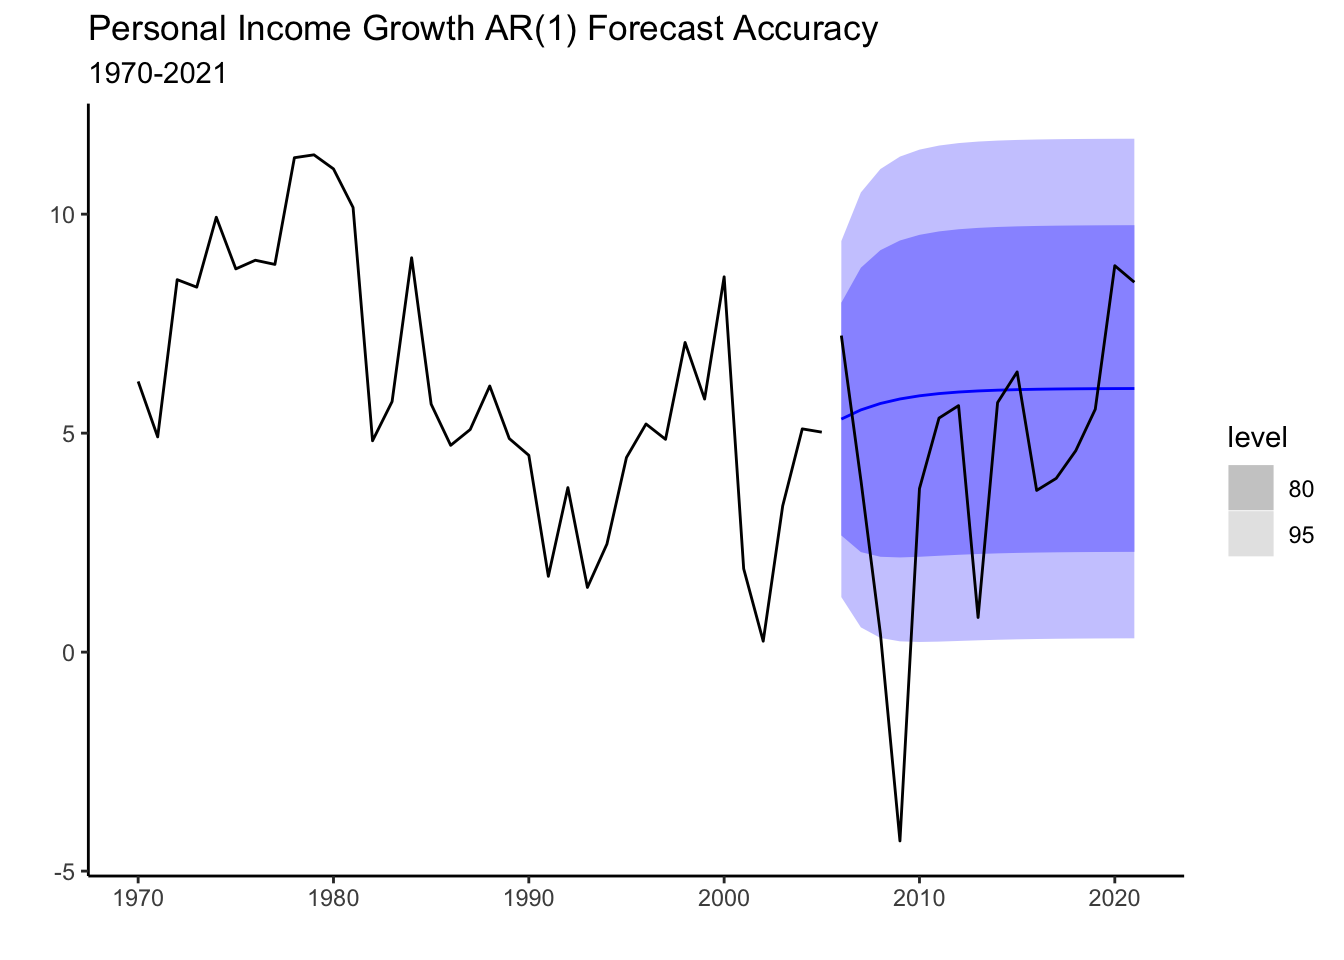
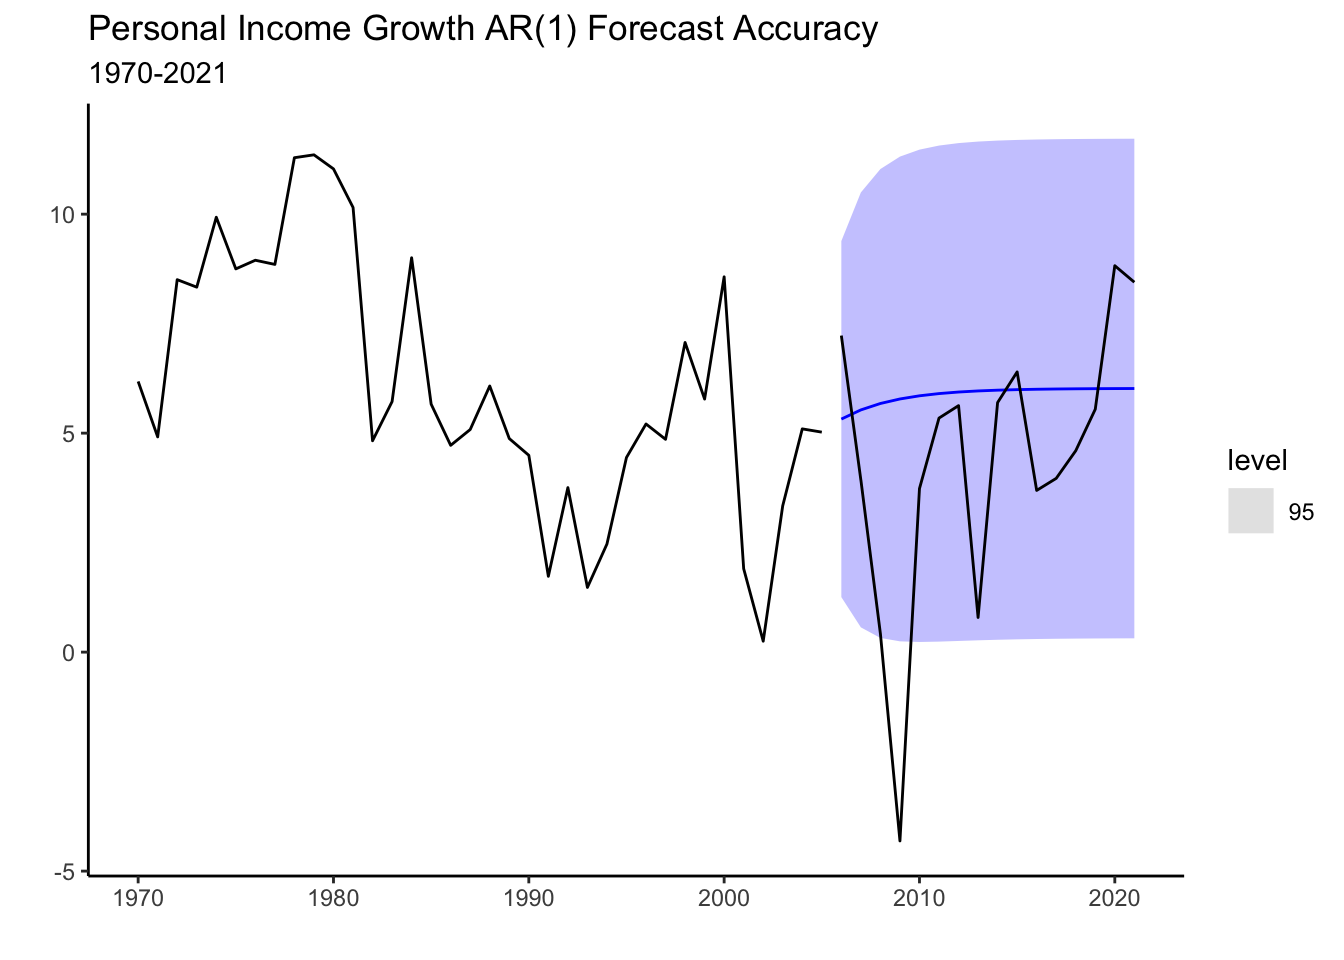
changes

Changed region(s): [[0.625, 0.2188, 0.8438, 0.5938], [0.9062, 0.4375, 1.0, 0.5938]]

diff --git a/docs/ARIMA.html b/docs/ARIMA.html
@@ -229,7 +229,10 @@ div.csl-indent {
   <li><a href="#modeling-and-residuals" id="toc-modeling-and-residuals" class="nav-link" data-scroll-target="#modeling-and-residuals">Modeling and Residuals</a></li>
   <li><a href="#model-selection" id="toc-model-selection" class="nav-link" data-scroll-target="#model-selection">Model Selection</a></li>
   </ul></li>
-  <li><a href="#the-ma1-model" id="toc-the-ma1-model" class="nav-link" data-scroll-target="#the-ma1-model"><span class="header-section-number">7.3</span> The MA(1) model</a></li>
+  <li><a href="#the-ma1-model" id="toc-the-ma1-model" class="nav-link" data-scroll-target="#the-ma1-model"><span class="header-section-number">7.3</span> The MA(1) model</a>
+  <ul class="collapse">
+  <li><a href="#u.s.-treasury-example" id="toc-u.s.-treasury-example" class="nav-link" data-scroll-target="#u.s.-treasury-example">U.S. Treasury Example</a></li>
+  </ul></li>
   <li><a href="#arima" id="toc-arima" class="nav-link" data-scroll-target="#arima"><span class="header-section-number">7.4</span> ARIMA</a>
   <ul class="collapse">
   <li><a href="#revisiting-chilangos-restaurant" id="toc-revisiting-chilangos-restaurant" class="nav-link" data-scroll-target="#revisiting-chilangos-restaurant">Revisiting Chilango’s Restaurant</a></li>
@@ -859,11 +862,11 @@ We can generate a white noise process by using the normal distribution with a me
 </section>
 <section id="the-ar1-model" class="level2" data-number="7.2">
 <h2 data-number="7.2" class="anchored" data-anchor-id="the-ar1-model"><span class="header-section-number">7.2</span> The AR(1) model</h2>
-<p>In the previous section, we established that growth of personal income in California has a decaying ACF and a single significant spike (at lag 1) in the PACF. These patterns can be generated with an AR(1) model. Specifically, the AR(1) model is of the form:</p>
+<p>In the previous section, we established that the growth of personal income in California has a decaying ACF and a single significant spike (at lag 1) in the PACF. These patterns can be generated with an AR(1) model. Specifically, the AR(1) model is of the form:</p>
 <center>
 <span class="math inline">\(y_t=c+\phi y_{t-1}+ \epsilon_t\)</span>
 </center>
-<p>where <span class="math inline">\(c\)</span> is a constant, <span class="math inline">\(\phi\)</span> is thw lag coefficient, <span class="math inline">\(y_{t-1}\)</span> is the first lag of <span class="math inline">\(y\)</span>, and <span class="math inline">\(\epsilon\)</span> is random error. Note that this model uses the first lag of the series as the single independent variable. The AR model can be extended to include more lags of <span class="math inline">\(y\)</span>, and in general, it would be called an <span class="math inline">\(AR(p)\)</span> model, where <span class="math inline">\(p\)</span> is the largest lag included. Since, we include only the first lag of the <span class="math inline">\(y\)</span> variable in the specification above, we refer to the model as an AR(1). Below we simulate some data based on the AR(1) model.</p>
+<p>where <span class="math inline">\(c\)</span> is a constant, <span class="math inline">\(\phi\)</span> is the lag coefficient, <span class="math inline">\(y_{t-1}\)</span> is the first lag of <span class="math inline">\(y\)</span>, and <span class="math inline">\(\epsilon\)</span> is random error. Since this model uses only the first lag of the series as the independent variable, it is known as AR(1). The AR model can be extended to include more lags of <span class="math inline">\(y\)</span>, and in general, it would be called an <span class="math inline">\(AR(p)\)</span> model, where <span class="math inline">\(p\)</span> is the largest lag included. Below we simulate some data based on the AR(1) model.</p>
 <div class="cell">
 <div class="sourceCode cell-code" id="cb11"><pre class="sourceCode r code-with-copy"><code class="sourceCode r"><span id="cb11-1"><a href="#cb11-1" aria-hidden="true" tabindex="-1"></a>y<span class="ot">&lt;-</span><span class="fu">c</span>(<span class="dv">0</span>)</span>
 <span id="cb11-2"><a href="#cb11-2" aria-hidden="true" tabindex="-1"></a>phi<span class="ot">&lt;-</span><span class="fl">0.7</span></span>
@@ -874,7 +877,7 @@ We can generate a white noise process by using the normal distribution with a me
 <span id="cb11-7"><a href="#cb11-7" aria-hidden="true" tabindex="-1"></a>y[i]<span class="ot">=</span>const<span class="sc">+</span>phi<span class="sc">*</span>y[i<span class="dv">-1</span>]<span class="sc">+</span><span class="fu">rnorm</span>(<span class="dv">1</span>,<span class="dv">0</span>,<span class="fl">0.5</span>)</span>
 <span id="cb11-8"><a href="#cb11-8" aria-hidden="true" tabindex="-1"></a>}</span></code><button title="Copy to Clipboard" class="code-copy-button"><i class="bi"></i></button></pre></div>
 </div>
-<p>Now we can use the data generated to see what the ACF looks like for a AR(1) process. This will allow us to visually identify the AR(1).</p>
+<p>Now we can use the data generated to see what the ACF looks like for a AR(1) process. This will allow us to visually identify the process.</p>
 <div class="cell">
 <div class="sourceCode cell-code" id="cb12"><pre class="sourceCode r code-with-copy"><code class="sourceCode r"><span id="cb12-1"><a href="#cb12-1" aria-hidden="true" tabindex="-1"></a><span class="fu">tsibble</span>(<span class="at">y=</span>y,<span class="at">period=</span><span class="fu">seq</span>(<span class="dv">1</span>,<span class="fu">length</span>(y)),<span class="at">index=</span>period) <span class="sc">%&gt;%</span> <span class="fu">ACF</span>(<span class="at">lag_max =</span> <span class="dv">12</span>, y) <span class="sc">%&gt;%</span> <span class="fu">autoplot</span>()<span class="sc">+</span><span class="fu">theme_bw</span>()<span class="sc">+</span></span>
 <span id="cb12-2"><a href="#cb12-2" aria-hidden="true" tabindex="-1"></a><span class="fu">labs</span>(<span class="at">x=</span><span class="st">""</span>, <span class="at">y=</span><span class="st">""</span>, <span class="at">title=</span><span class="st">"ACF For Simulated AR(1) phi=0.7, c=1"</span>)</span></code><button title="Copy to Clipboard" class="code-copy-button"><i class="bi"></i></button></pre></div>
@@ -882,7 +885,7 @@ We can generate a white noise process by using the normal distribution with a me
 <p><img src="ARIMA_files/figure-html/unnamed-chunk-14-1.png" class="img-fluid" width="672"></p>
 </div>
 </div>
-<p>Note the resemblance of the ACF of the simulated data to that of the personal income growth. There is a decaying ACF with a strong correlation of lag one and subsequent lower correlations as the lag gets larger. Now let’s take a look at the PACF.</p>
+<p>Note the resemblance of the ACF of the simulated data to that of the personal income growth. There is a decaying ACF described by a strong correlation of lag one and subsequent lower correlations as the lags get larger. Now let’s take a look at the PACF.</p>
 <div class="cell">
 <div class="sourceCode cell-code" id="cb13"><pre class="sourceCode r code-with-copy"><code class="sourceCode r"><span id="cb13-1"><a href="#cb13-1" aria-hidden="true" tabindex="-1"></a><span class="fu">tsibble</span>(<span class="at">y=</span>y,<span class="at">period=</span><span class="fu">seq</span>(<span class="dv">1</span>,<span class="fu">length</span>(y)),<span class="at">index=</span>period) <span class="sc">%&gt;%</span> <span class="fu">PACF</span>(<span class="at">lag_max =</span> <span class="dv">12</span>, y) <span class="sc">%&gt;%</span> <span class="fu">autoplot</span>()<span class="sc">+</span><span class="fu">theme_bw</span>()<span class="sc">+</span><span class="fu">labs</span>(<span class="at">x=</span><span class="st">""</span>,<span class="at">y=</span><span class="st">"PACF"</span>,                         <span class="at">title=</span><span class="st">"PACF For Simulated AR(1) phi=0.7, c=1"</span>)</span></code><button title="Copy to Clipboard" class="code-copy-button"><i class="bi"></i></button></pre></div>
 <div class="cell-output-display">
@@ -1389,8 +1392,8 @@ We can generate a white noise process by using the normal distribution with a me
 </div>
 </div>
 </div>
-<p>The estimated coefficient (<span class="math inline">\(\phi=0.7\)</span>) for the AR(1) process is equal the one used in our simulation. However, the estimated constant is 1.8. If we changed the constant to 1.8, the simulation would resemble the PI growth data better. That is, the AR model selects the constant and lag coefficient (<span class="math inline">\(\phi\)</span>) such that it fits the data.</p>
-<p>If the AR(1) process correctly describes the series, the errors should behave like white noise. That is because the model should pick up all of the systemic variation, and leave only random error. To inspect the errors we can use the <code>augment()</code> function. The ACF of the error is displayed below.</p>
+<p>The estimated coefficient (<span class="math inline">\(\phi=0.7\)</span>) for the AR(1) process is equal the one used in our simulation. However, the estimated constant is 1.8. If we changed the constant to 1.8, the simulation would resemble the personal income growth data better. That is, the AR model selects the constant and lag coefficient (<span class="math inline">\(\phi\)</span>) such that it fits the data.</p>
+<p>If the AR(1) process correctly describes the series, the errors should behave like white noise. If the model picks up all of the systemic variation, only random error should be left. To inspect the errors we can use the <code>augment()</code> function along with the object that contains the model (<em>PI_fit</em>). The ACF of the error is displayed below.</p>
 <div class="cell">
 <div class="sourceCode cell-code" id="cb15"><pre class="sourceCode r code-with-copy"><code class="sourceCode r"><span id="cb15-1"><a href="#cb15-1" aria-hidden="true" tabindex="-1"></a>errors_PI<span class="ot">&lt;-</span><span class="fu">augment</span>(PI_fit)</span>
 <span id="cb15-2"><a href="#cb15-2" aria-hidden="true" tabindex="-1"></a></span>
@@ -1400,7 +1403,7 @@ We can generate a white noise process by using the normal distribution with a me
 <p><img src="ARIMA_files/figure-html/unnamed-chunk-18-1.png" class="img-fluid" width="672"></p>
 </div>
 </div>
-<p>Note how the ACF of the errors from the AR(1) model resemble white noise. This suggests that we have identified the systematic component of the series as being an AR(1) process. In other words, there is nothing left to model since the errors are entirely random. This is not the case for the LS model since we still observe some significant spikes (lag 1 and lag 13) in the ACF function.</p>
+<p>The ACF of the errors from the AR(1) model resemble white noise. This suggests that we have correctly identified the systematic component of the series. In other words, there is nothing left to model since the errors are entirely random. This is not the case for the LS model since we still observe some significant spikes (lag 1 and lag 13) in the ACF function.</p>
 <div class="cell">
 <div class="sourceCode cell-code" id="cb16"><pre class="sourceCode r code-with-copy"><code class="sourceCode r"><span id="cb16-1"><a href="#cb16-1" aria-hidden="true" tabindex="-1"></a>errors_PI <span class="sc">%&gt;%</span> <span class="fu">select</span>(.resid) <span class="sc">%&gt;%</span> <span class="fu">PACF</span>(.resid) <span class="sc">%&gt;%</span> </span>
 <span id="cb16-2"><a href="#cb16-2" aria-hidden="true" tabindex="-1"></a>  <span class="fu">autoplot</span>() <span class="sc">+</span> <span class="fu">theme_bw</span>()</span></code><button title="Copy to Clipboard" class="code-copy-button"><i class="bi"></i></button></pre></div>
@@ -1408,11 +1411,11 @@ We can generate a white noise process by using the normal distribution with a me
 <p><img src="ARIMA_files/figure-html/unnamed-chunk-19-1.png" class="img-fluid" width="672"></p>
 </div>
 </div>
-<p>The PACF once again shows no pattern for the residuals of the AR(1) model and some significant lags for the LS model. Once again, the AR(1) model correctly identifies the data generating process in the time series.</p>
+<p>The PACF once again shows no pattern for the residuals of the AR(1) model and some significant lags for the LS model. This further confirms that the AR(1) model correctly identifies the data generating process in the time series.</p>
 </section>
 <section id="model-selection" class="level3 unnumbered">
 <h3 class="unnumbered anchored" data-anchor-id="model-selection">Model Selection</h3>
-<p>We can choose between these two models by looking at the AIC, AICc, or BIC.</p>
+<p>We can choose between these choose between the LS and AR(1) models by looking at the AIC, AICc, or BIC.</p>
 <div class="cell">
 <div class="sourceCode cell-code" id="cb17"><pre class="sourceCode r code-with-copy"><code class="sourceCode r"><span id="cb17-1"><a href="#cb17-1" aria-hidden="true" tabindex="-1"></a><span class="fu">glance</span>(PI_fit) <span class="sc">%&gt;%</span> <span class="fu">arrange</span>(AICc) <span class="sc">%&gt;%</span> <span class="fu">select</span>(.model<span class="sc">:</span>BIC)</span></code><button title="Copy to Clipboard" class="code-copy-button"><i class="bi"></i></button></pre></div>
 </div>
@@ -2388,7 +2391,7 @@ We can generate a white noise process by using the normal distribution with a me
 </div>
 <p>The graph below shows the test set along with the forecast of the AR(1) model. Prediction confidence intervals are shown to highlight the uncertainty of the prediction. The blue line indicates the mean of the predictions which are assumed to follow a normal distribution.</p>
 <div class="cell">
-<div class="sourceCode cell-code" id="cb19"><pre class="sourceCode r code-with-copy"><code class="sourceCode r"><span id="cb19-1"><a href="#cb19-1" aria-hidden="true" tabindex="-1"></a>PI_fc <span class="sc">%&gt;%</span> <span class="fu">filter</span>(.model<span class="sc">==</span><span class="st">"AR1"</span>) <span class="sc">%&gt;%</span> <span class="fu">autoplot</span>() <span class="sc">+</span> <span class="fu">theme_classic</span>() <span class="sc">+</span></span>
+<div class="sourceCode cell-code" id="cb19"><pre class="sourceCode r code-with-copy"><code class="sourceCode r"><span id="cb19-1"><a href="#cb19-1" aria-hidden="true" tabindex="-1"></a>PI_fc <span class="sc">%&gt;%</span> <span class="fu">filter</span>(.model<span class="sc">==</span><span class="st">"AR1"</span>) <span class="sc">%&gt;%</span> <span class="fu">autoplot</span>(<span class="at">level=</span><span class="dv">95</span>) <span class="sc">+</span> <span class="fu">theme_classic</span>() <span class="sc">+</span></span>
 <span id="cb19-2"><a href="#cb19-2" aria-hidden="true" tabindex="-1"></a>  <span class="fu">autolayer</span>(PI_train, PI_Growth) <span class="sc">+</span></span>
 <span id="cb19-3"><a href="#cb19-3" aria-hidden="true" tabindex="-1"></a>  <span class="fu">autolayer</span>(PI_test, PI_Growth) <span class="sc">+</span> </span>
 <span id="cb19-4"><a href="#cb19-4" aria-hidden="true" tabindex="-1"></a>  <span class="fu">labs</span>(<span class="at">title=</span><span class="st">"Personal Income Growth AR(1) Forecast Accuracy"</span>,</span>
@@ -2403,9 +2406,9 @@ We can generate a white noise process by using the normal distribution with a me
 <h2 data-number="7.3" class="anchored" data-anchor-id="the-ma1-model"><span class="header-section-number">7.3</span> The MA(1) model</h2>
 <p>The moving average (MA) process models time series by using past errors (random shocks). Formally,</p>
 <center>
-<span class="math inline">\(y_t=\mu + \theta \epsilon_{t-1}\)</span>
+<span class="math inline">\(y_t=\mu + \theta \epsilon_{t-1} +\epsilon_{t}\)</span>
 </center>
-<p>where <span class="math inline">\(\mu\)</span> is the mean of the time series, and <span class="math inline">\(\epsilon\)</span> is the error term. As with the AR model, further error term lags could be included in the MA. An MA process with highest lag of <span class="math inline">\(q\)</span> is called an MA(q) process. The MA process assumes that the current observation is a linear combination of the weighted sum of past error terms. The error terms capture the unpredictable and random fluctuations in the time series that are not accounted for by the AR model. Below we simulate an MA(1) process and generate the ACF and PACF plots.</p>
+<p>where <span class="math inline">\(\mu\)</span> is the mean of the time series, and <span class="math inline">\(\epsilon\)</span> is the error term. As with the AR model, further error term lags could be included in the MA. An MA process with highest lag of <span class="math inline">\(q\)</span> is called an MA(q) process. The MA process assumes that the current observation of a time series is a linear combination of the weighted sum of past error terms. The error terms capture the unpredictable and random fluctuations in the time series that are not accounted for by the AR model. Below we simulate an MA(1) process and generate the ACF and PACF plots.</p>
 <div>
 <div class="sourceCode cell-code" id="cb20"><pre class="sourceCode r code-with-copy"><code class="sourceCode r"><span id="cb20-1"><a href="#cb20-1" aria-hidden="true" tabindex="-1"></a><span class="fu">set.seed</span>(<span class="dv">13</span>)</span>
 <span id="cb20-2"><a href="#cb20-2" aria-hidden="true" tabindex="-1"></a>e_t<span class="ot">&lt;-</span><span class="fu">rnorm</span>(<span class="dv">300</span>,<span class="dv">0</span>,<span class="fl">0.5</span>)</span>
@@ -2427,7 +2430,9 @@ We can generate a white noise process by using the normal distribution with a me
 </div>
 </div>
 </div>
-<p>The pattern shown in the ACF is one significant spike in the first lag, and a decaying PACF as lags get larger. This is the opposite of the AR(1) process where we had a decaying ACF and one spike in the PACF. We can use the MA(1) process to model series that exhibit this pattern.</p>
+<p>The pattern shown is one significant spike in the first lag of the ACF, and a decaying PACF as lags get larger. This is the opposite of the AR(1) process where we had a decaying ACF and one spike in the PACF.</p>
+<section id="u.s.-treasury-example" class="level3 unnumbered">
+<h3 class="unnumbered anchored" data-anchor-id="u.s.-treasury-example">U.S. Treasury Example</h3>
 <p>Consider the percent monthly change the yield of U.S. treasury securities (TCM5Y). Below is the plot of the series.</p>
 <div class="cell">
 <div class="sourceCode cell-code" id="cb21"><pre class="sourceCode r code-with-copy"><code class="sourceCode r"><span id="cb21-1"><a href="#cb21-1" aria-hidden="true" tabindex="-1"></a>treasury<span class="ot">&lt;-</span><span class="fu">read_csv</span>(<span class="st">"https://jagelves.github.io/Data/treasury.csv"</span>)</span>
@@ -2464,11 +2469,12 @@ We can generate a white noise process by using the normal distribution with a me
 </div>
 </div>
 </div>
-<p>When comparing with the MA(1) simulated values, the ACF of TCM5Y reflects the same pattern. One spike, and all other lags not significantly different from zero in the ACF. The PACF doesn’t exactly replicate the one from the simulation, but the pattern created is the same. Mainly, there is a decaying PACF, a large lag 1 partial autocorrelation, followed by smaller ones until they all are insignificant. These correlations additionally alternate in sign. As with did with the AR(1) process, we can estimate the model, check that the errors are white noise, and then forecast.</p>
+<p>When comparing with the MA(1) simulated values, the ACF of TCM5Y reflects the same pattern. One spike, and all other lags not significantly different from zero in the ACF. The PACF doesn’t exactly replicate the one from the simulation, but the pattern created is the same. Mainly, there is a decaying PACF, a large lag 1 partial autocorrelation, followed by smaller ones until they all are insignificant. These correlations additionally alternate in sign. As with the AR(1) process, we can estimate the model, check that the errors are white noise, and then forecast.</p>
+</section>
 </section>
 <section id="arima" class="level2" data-number="7.4">
 <h2 data-number="7.4" class="anchored" data-anchor-id="arima"><span class="header-section-number">7.4</span> ARIMA</h2>
-<p>The ARIMA model is based on the notion of stationarity and the AR and MA processes. ARIMA stands for AutoRegressive Integrated Moving Average.</p>
+<p>The ARIMA model is based on stationary, AR, and MA processes. ARIMA stands for AutoRegressive Integrated Moving Average.</p>
 <ul>
 <li>AutoRegressive (AR): The “AR” part means that the future values of a time series depend on its own past values. If today’s value is high, tomorrow’s value is likely to be high too.</li>
 <li>Integrated (I): The “I” part is about making the time series stationary. It means we take the differences between consecutive observations to remove trends or seasonality.</li>
@@ -3062,7 +3068,7 @@ We can generate a white noise process by using the normal distribution with a me
 </div>
 </div>
 </div>
-<p>The patterns shown are textbook AR(1). Hence, the inclusion of the model in the set of candidates. The code below forecasts the series 27 periods ahead and plots.</p>
+<p>The patterns shown in the plots above are textbook AR(1). Hence, the inclusion of the model in the set of candidates. The code below forecasts the series 27 periods ahead and plots.</p>
 <div class="cell">
 <div class="sourceCode cell-code" id="cb27"><pre class="sourceCode r code-with-copy"><code class="sourceCode r"><span id="cb27-1"><a href="#cb27-1" aria-hidden="true" tabindex="-1"></a>fit <span class="sc">%&gt;%</span> <span class="fu">forecast</span>(<span class="at">h=</span><span class="dv">27</span>) <span class="sc">%&gt;%</span> <span class="fu">autoplot</span>(<span class="at">level=</span><span class="cn">NULL</span>) <span class="sc">+</span> </span>
 <span id="cb27-2"><a href="#cb27-2" aria-hidden="true" tabindex="-1"></a>  <span class="fu">theme_classic</span>() <span class="sc">+</span> </span>
@@ -3590,7 +3596,7 @@ We can generate a white noise process by using the normal distribution with a me
 </div>
 </div>
 </div>
-<p>The AR(1) and LS models seems to be the best models. Interestingly, one could imagining combining the forecasts of these models to obtain an even better forecast of the data.</p>
+<p>What is not shown in the metrics is how the forecast’s errors are created. The LS model overestimates the test data, while the AR(1) underestimates it. One could imagine combining the forecasts of these models to obtain an even better data forecast. We can create an <strong>ensemble</strong> by calculating a simple average of the two predictions.</p>
 </section>
 </section>
 <section id="readings" class="level2" data-number="7.5">
